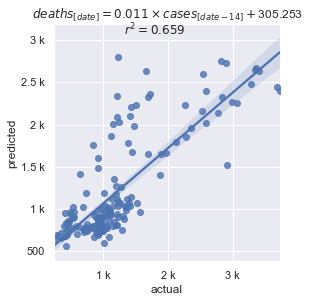
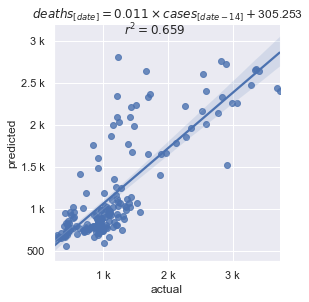
daily update

diff --git a/covid-linear-regression.py b/covid-linear-regression.py
@@ -65,8 +65,8 @@ fig.clf()
 model = BestFitModel(df[['new_cases']], df['new_deaths'], MAX_OFFSET)
 
 fig = sns.lmplot(data= model.data, x="actual", y="predicted").fig
-fig.suptitle(rf"$r^2={round(model.r2,3)}$", fontsize=12)
 fig.set_size_inches(3.75, 3.75)
+fig.suptitle(rf"$r^2={round(model.r2,3)}$", fontsize=12)
 
 ax = fig.axes[0]
 ax.xaxis.set_major_formatter(ticker.EngFormatter())
@@ -82,13 +82,14 @@ fig.clf()
 data = Predict(model, df["date"], df[['new_cases']], df['new_deaths'])
 
 ax = sns.lineplot(data=data, x="dates", y="deaths", hue="series")
+fig = ax.figure
+fig.set_size_inches(8, 4.5)
+
 ax.set_title(f'({model.offset} days between cases and deaths)', fontsize=12)
 ax.xaxis.set_major_locator(mdates.MonthLocator())
 ax.xaxis.set_major_formatter(mdates.DateFormatter('%Y-%m-%d'))
 ax.yaxis.set_major_formatter(ticker.EngFormatter())
 
-fig = ax.figure
-fig.set_size_inches(8, 4.5)
 fig.suptitle('actual & projected deaths', fontsize=16)
 fig.autofmt_xdate()
 
@@ -101,8 +102,8 @@ fig.clf()
 model = BestFitModel(df[['new_cases_smoothed']], df['new_deaths_smoothed'], MAX_OFFSET)
 
 fig = sns.lmplot(data= model.data, x="actual", y="predicted").fig
-fig.suptitle(rf"$r^2={round(model.r2,3)}$", fontsize=12)
 fig.set_size_inches(3.75, 3.75)
+fig.suptitle(rf"$r^2={round(model.r2,3)}$", fontsize=12)
 
 ax = fig.axes[0]
 ax.xaxis.set_major_formatter(ticker.EngFormatter())
@@ -118,13 +119,14 @@ fig.clf()
 data = Predict(model, df["date"], df[['new_cases_smoothed']], df['new_deaths_smoothed'])
 
 ax = sns.lineplot(data=data, x="dates", y="deaths", hue="series")
+fig = ax.figure
+fig.set_size_inches(8, 4.5)
+
 ax.set_title(f'({model.offset} days between cases and deaths)', fontsize=12)
 ax.xaxis.set_major_locator(mdates.MonthLocator())
 ax.xaxis.set_major_formatter(mdates.DateFormatter('%Y-%m-%d'))
 ax.yaxis.set_major_formatter(ticker.EngFormatter())
 
-fig = ax.figure
-fig.set_size_inches(8, 4.5)
 fig.suptitle('actual & projected deaths (smoothed)', fontsize=16)
 fig.autofmt_xdate()
 
@@ -146,11 +148,18 @@ s = f'There will be about {"{:,}".format(round(round(deaths["deaths"], -1)))} CO
 img = Image.new('RGB', (420, 60))
 ImageDraw.Draw(img).text((10, 10), s, font=ImageFont.truetype("arial.ttf", 18))
 img.save("deaths.jpg")
-
+img
 
 
 # In[ ]:
+min = today - np.timedelta64(model.offset,'D')
+yesterday = today - np.timedelta64(1,'D')
+deaths = data.query("series == 'projected' & dates >= @min & dates < @yesterday").sum()
+s = f'There were {"{:,}".format(round(deaths["deaths"]))} COVID deaths in the {country}\nbetween {min.astype(date).strftime("%B %d")} and {yesterday.astype(date).strftime("%B %d")}.'
 
-
+img = Image.new('RGB', (420, 60))
+ImageDraw.Draw(img).text((10, 10), s, font=ImageFont.truetype("arial.ttf", 18))
+img.save("previous-deaths.jpg")
+img
 
 
